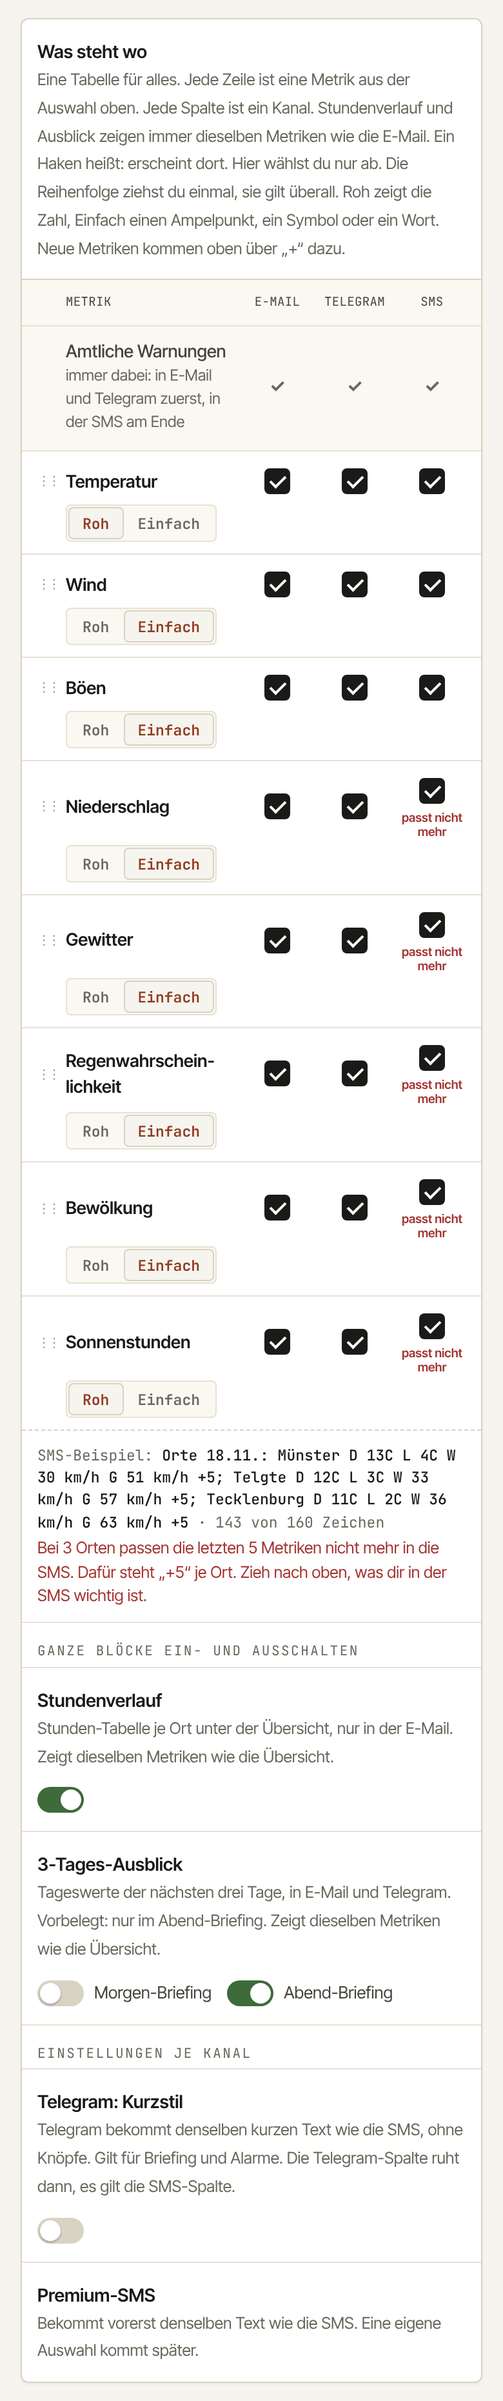
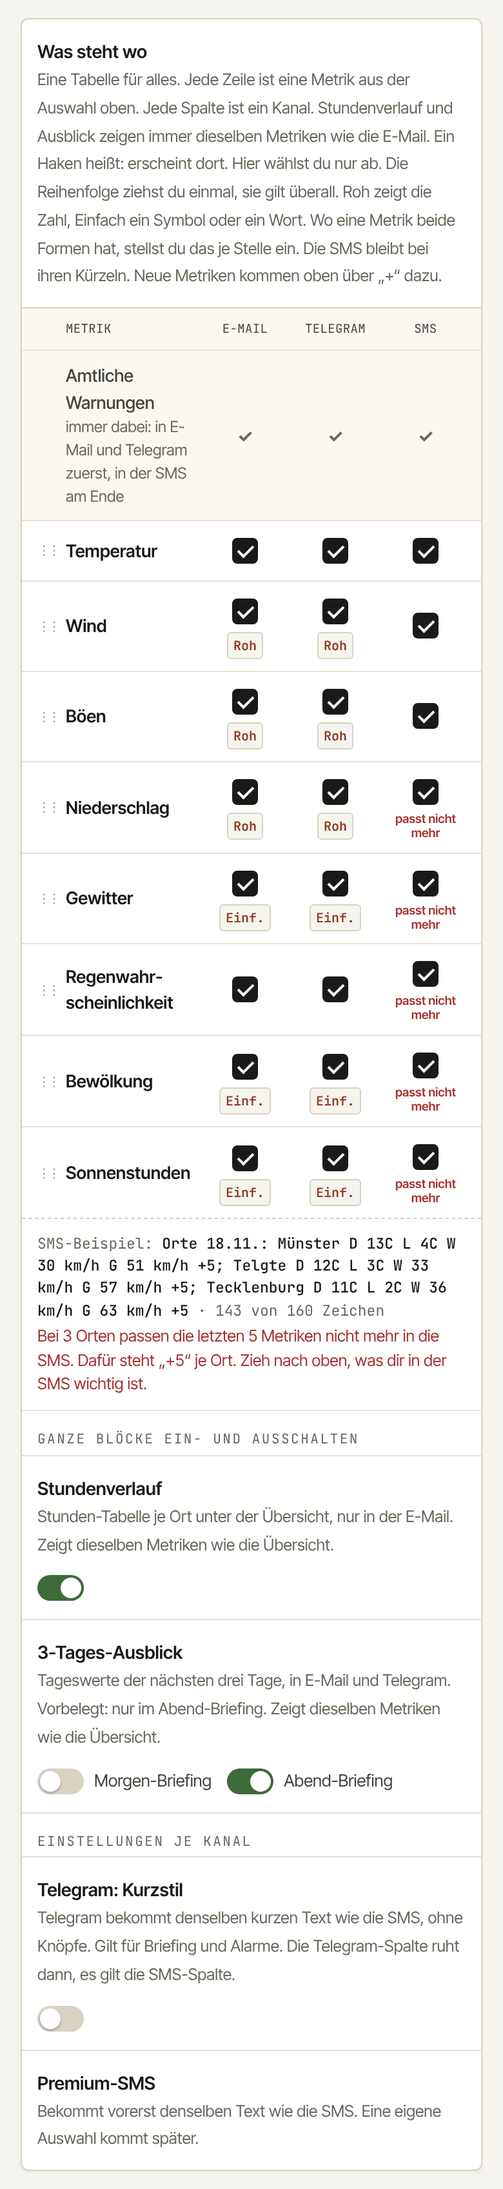
docs(#3122): Roh/Einfach je Stelle und nur bei Metriken mit zwei Formen
PO-Hinweis 17.11.: Roh/Einfach gibt es nicht bei allen Metriken, und die
Unterscheidung ist gerade zwischen Übersicht, Stundenverlauf und Ausblick
sinnvoll. Mockup: Umschalter je Stelle (E-Mail, Telegram, Stundenverlauf,
Ausblick), nur bei Metriken mit zwei Formen laut metric_catalog.py;
sonst „nur Zahl“. Entscheidungsseite und Bilder nachgezogen.

Claude-Session: https://claude.ai/code/session_01DQAMysNdkEqGcJ7x6yciPx

diff --git a/docs/context/einstellungen_neu/seiten/mockup-hub-fassung4-varianten.html b/docs/context/einstellungen_neu/seiten/mockup-hub-fassung4-varianten.html
@@ -243,6 +243,8 @@ body.marks .tag{display:inline-block}
 .kx .xc{border-left:1px solid var(--g-rule-soft);padding-left:12px;align-self:stretch}
 .kx .sh{display:none}
 .nix{width:28px;display:inline-grid;place-items:center;color:var(--g-ink-4)}
+.nurz{font-size:12px;color:var(--g-ink-3)}
+.kx .xc{gap:6px}
 .kx.kxh{font-family:var(--f-mono);font-size:10px;letter-spacing:.08em;text-transform:uppercase;color:var(--g-ink-2);background:var(--g-card-alt);border-top:1px solid var(--g-rule);align-items:start;padding-block:10px}
 .kx.kxh small{display:block;text-transform:none;letter-spacing:0;font-family:var(--f-ui);font-size:11px;color:var(--g-ink-3);margin-top:1px}
 .kx .h{color:var(--g-ink-4);font-family:var(--f-mono);cursor:grab;font-size:12px}
@@ -316,12 +318,13 @@ body.only .vlabel{display:none}
   .kx .h{font-size:10px;letter-spacing:-2px}
   .kx.x1,.kx.nofmt.x1{grid-template-columns:14px minmax(0,1fr) repeat(4,46px);gap:4px 6px}
   .kx.x2{grid-template-columns:14px minmax(0,1fr) repeat(5,40px);gap:4px 4px}
-  .kx.nofmt.x1{grid-template-columns:14px minmax(0,1fr) repeat(3,54px) 40px}
-  .kx.nofmt.x2{grid-template-columns:14px minmax(0,1fr) repeat(3,50px) repeat(2,34px);gap:4px 3px}
+  .kx.nofmt.x1{grid-template-columns:14px minmax(0,1fr) 50px 50px 36px 50px;gap:4px 5px}
+  .kx.nofmt.x2{grid-template-columns:14px minmax(0,1fr) 45px 45px 32px 45px 45px;gap:4px 3px}
+  .kx .nurz{font-size:11.5px}
   .kx .xc{padding-left:0;border-left:0}
   .kx .lg{display:none}
   .kx .sh{display:inline}
-  .kx.x2 .mini{padding:3px 4px;font-size:10px}
+  .kx .mini{padding:3px 4px;font-size:10px}
   .kx .kfmt{grid-column:2/-1;grid-row:2}
   .kx.kxh .kfmt{display:none}
   .kx.kxh{font-size:9.5px;letter-spacing:.02em}
@@ -351,7 +354,7 @@ body.only .vlabel{display:none}
   <div class="fr-rows">
     <div class="fr-row"><span class="fr-l">Ansicht</span><span class="sw" role="group" aria-label="Kontext"><button class="on" data-ctx="trip" type="button">Trip</button><button data-ctx="orte" type="button">Orte · 3 Orte</button><button data-ctx="ort1" type="button">Orte · 1 Ort</button></span></div>
     <div class="fr-row"><span class="fr-l"><i>1</i> Kanal-Auswahl</span><span class="sw" role="group" aria-label="Kanal-Auswahl"><button data-set="varK:A" type="button">A · Eine Tabelle</button><button data-set="varK:B" type="button">B · Liste je Kanal</button></span></div>
-    <div class="fr-row"><span class="fr-l"><i>2</i> Roh / Einfach <small>nur bei A</small></span><span class="sw" role="group" aria-label="Roh oder Einfach"><button data-set="varF:einmal" type="button">einmal je Metrik</button><button data-set="varF:kanal" type="button">je Metrik und Kanal</button></span></div>
+    <div class="fr-row"><span class="fr-l"><i>2</i> Roh / Einfach <small>nur bei A</small></span><span class="sw" role="group" aria-label="Roh oder Einfach"><button data-set="varF:einmal" type="button">einmal je Metrik</button><button data-set="varF:kanal" type="button">je Metrik und Stelle</button></span></div>
     <div class="fr-row"><span class="fr-l"><i>3</i> Stundenverlauf und Ausblick</span><span class="sw" role="group" aria-label="Ausblick und Stundenverlauf"><button data-set="varT:fest" type="button">nur Schalter</button><button data-set="varT:abwahl" type="button">eigene Spalten mit Abwahl</button></span></div>
   </div>
 </div>
@@ -602,7 +605,7 @@ function viewWetter(){
     <div class="lrow"><div class="t"><b>Radar-Regen ${ctx==='trip'?tg('N1'):''}</b><small>Alarm, wenn in der nächsten Stunde Regen auf ${ctx==='trip'?'deine Etappe':EIN()?'deinen Ort':'deine Orte'} zukommt</small></div><div class="r">${sw('radar',s.sw.radar,'Radar-Regen')}</div></div>
   </div>
   </div>
-  <div class="part" data-part="kanal"><span class="vlabel">${V.varK==='A'?'Variante A · Eine Tabelle'+(V.varF==='kanal'?' · Roh/Einfach je Kanal':'')+(V.varT==='abwahl'?' · Stundenverlauf und Ausblick als Spalten':' · Stundenverlauf und Ausblick nur als Schalter'):'Variante B · Liste je Kanal'}</span>${V.varK==='A'?kanalTabelle():kanalListen()}</div>
+  <div class="part" data-part="kanal"><span class="vlabel">${V.varK==='A'?'Variante A · Eine Tabelle'+(V.varF==='kanal'?' · Roh/Einfach je Stelle':' · Roh/Einfach einmal je Metrik')+(V.varT==='abwahl'?' · Stundenverlauf und Ausblick als Spalten':' · Stundenverlauf und Ausblick nur als Schalter'):'Variante B · Liste je Kanal'}</span>${V.varK==='A'?kanalTabelle():kanalListen()}</div>
   ${V.varK==='B'?`<div class="part" data-part="teile"><span class="vlabel">${V.varT==='fest'?'Wie E-Mail, fest':'Wie E-Mail, mit Abwahl'}</span>${teileCard()}</div>`:''}
   <div class="part" data-part="bsp">${beispielPanel()}</div>
   <div class="part" data-part="anpassen">
@@ -646,13 +649,15 @@ const TF={
  thunder:{h:['leicht','leicht','leicht'],tg:'TH leicht',sms:'TH:L@13 TH+:-',a:['kein','kein']},
  cloud_total:{h:['⛅','⛅','☁'],tg:'CT 42-75@15',sms:'CT75@15',a:['40%','80%']},
  sunshine:{h:['–','–','–'],tg:'SU 5',sms:'SU5',a:['6.0','2.5']}};
-const V={varK:'A',varF:'einmal',varT:'abwahl',nameV:'Orte'};
+const V={varK:'A',varF:'kanal',varT:'abwahl',nameV:'Orte'};
 let ONLY=null; const PRE=[];
-function K(){const s=S(); if(!s.kan){s.kan={sel:{'E-Mail':{},'Telegram':{},'SMS':{}},fmt:{},fmtK:{'E-Mail':{},'Telegram':{}},weg:{ausblick:{},stunden:{}}};
+function K(){const s=S(); if(!s.kan){s.kan={sel:{'E-Mail':{},'Telegram':{},'SMS':{}},fmt:{},fmtK:{'E-Mail':{},'Telegram':{},stunden:{},ausblick:{}},weg:{ausblick:{},stunden:{}}};
   PRE.forEach(x=>{if(x[0]==='sel') s.kan.sel[x[1]][x[2]]=false; else s.kan.weg[x[0]][x[1]]=true;});} return s.kan;}
 const onMs=()=>CTX[ctx].metrics.filter(m=>S()[m[0]].on);
 const isSel=(ch,id)=>K().sel[ch][id]!==false;
-const defFmt=id=>['wind','gust','precipitation','rain_probability','thunder','cloud_total','cloud_low'].includes(id)?'Einfach':'Roh';
+// Zweite Darstellungsform laut metric_catalog.py (format_modes); alle anderen Metriken kennen nur die Zahl
+const HASF=['wind','gust','wind_direction','precipitation','thunder','cloud_total','cloud_low','cloud_mid','cloud_high','sunshine'];
+const defFmt=id=>['wind_direction','thunder','cloud_total','cloud_low','cloud_mid','cloud_high','sunshine'].includes(id)?'Einfach':'Roh';
 const fmt1=id=>K().fmt[id]||defFmt(id);
 const fmtK=(ch,id)=>K().fmtK[ch][id]||defFmt(id);
 const mailM=()=>onMs().filter(m=>isSel('E-Mail',m[0]));
@@ -709,22 +714,24 @@ function kanalTabelle(){
   const sub={'E-Mail':mailName(),'Telegram':kurz?'Kurzstil: wie SMS':'Nachricht','SMS':'und Premium-SMS'};
   const kurzn={'E-Mail':'E-Mail','Telegram':ext.length>1?'Telegr.':'Telegram','SMS':'SMS'};
   const XH={stunden:['Stundenverlauf','Std.','nur E-Mail'],ausblick:['3-Tages-Ausblick','Ausbl.','E-Mail und Telegram']};
-  const head=`<div class="kx kxh ${cls}"><span></span><span>Metrik</span>${je?'':`<span class="kfmt">Darstellung<small>gilt für E-Mail und Telegram</small></span>`}${KAN.map(ch=>`<span class="kc"><span class="lg">${ch}</span><span class="sh">${kurzn[ch]}</span><small>${sub[ch]}</small></span>`).join('')}${ext.map(x=>`<span class="kc xc"><span class="lg">${XH[x][0]}</span><span class="sh">${XH[x][1]}</span><small>${XH[x][2]}</small></span>`).join('')}</div>`;
+  const head=`<div class="kx kxh ${cls}"><span></span><span>Metrik</span>${je?'':`<span class="kfmt">Darstellung<small>gilt überall außer in der SMS</small></span>`}${KAN.map(ch=>`<span class="kc"><span class="lg">${ch}</span><span class="sh">${kurzn[ch]}</span><small>${sub[ch]}</small></span>`).join('')}${ext.map(x=>`<span class="kc xc"><span class="lg">${XH[x][0]}</span><span class="sh">${XH[x][1]}</span><small>${XH[x][2]}</small></span>`).join('')}</div>`;
   const fix=s.sw.official?`<div class="kx fix ${cls}"><span></span><span class="kn">Amtliche Warnungen<small>immer dabei: in E-Mail und Telegram zuerst, in der SMS am Ende</small></span>${je?'':'<span class="kfmt"></span>'}${KAN.map(()=>`<span class="kc"><span class="lockck" title="immer dabei">✓</span></span>`).join('')}${ext.map(()=>'<span class="kc xc"></span>').join('')}</div>`:'';
   const rows=ms.map(m=>{const id=m[0];
     const cell=ch=>{const on=isSel(ch,id), dis=ch==='Telegram'&&kurz;
       const note=ch==='SMS'&&on&&sm.cutIds.includes(id)?'<em class="cutn">passt nicht mehr</em>':ch==='Telegram'&&on&&!dis&&tgCut.includes(id)?'<em class="cutn soft">nur Tageswert</em>':'';
-      const f=je&&ch!=='SMS'&&on&&!dis?`<button class="mini" type="button" data-fk="${ch}:${id}" aria-label="Darstellung ${m[1]} in ${ch}: ${fmtK(ch,id)}"><span class="lg">${fmtK(ch,id)}</span><span class="sh">${fmtK(ch,id)==='Roh'?'Roh':'Einf.'}</span></button>`:'';
+      const f=je&&ch!=='SMS'&&on&&!dis&&HASF.includes(id)?`<button class="mini" type="button" data-fk="${ch}:${id}" aria-label="Darstellung ${m[1]} in ${ch}: ${fmtK(ch,id)}"><span class="lg">${fmtK(ch,id)}</span><span class="sh">${fmtK(ch,id)==='Roh'?'Roh':'Einf.'}</span></button>`:'';
       return `<span class="kc ${on?'':'aus'} ${dis?'ruht':''}">${ckBox(ch,m,dis)}${f}<span class="kex">${on&&!dis?esc(exCell(ch,m)):''}</span>${note}</span>`;};
     const xcell=part=>{const an=part==='stunden'?s.sw.std:(s.sw.outM||s.sw.outA), name=part==='stunden'?'Stundenverlauf':'3-Tages-Ausblick';
       if(part==='stunden'&&id==='sunshine') return `<span class="kc xc"><span class="nix">–</span><em class="cutn soft">kein Stundenwert</em></span>`;
       if(!isSel('E-Mail',id)) return `<span class="kc xc"><span class="nix" title="nicht in der E-Mail">–</span></span>`;
-      return `<span class="kc xc ${an?'':'ruht'}"><label class="ck"><input type="checkbox" id="wk-${part}-${id}" data-wk="${part}:${id}" ${K().weg[part][id]?'':'checked'} ${an?'':'disabled'} aria-label="${m[1]} im ${name}"><i></i></label></span>`;};
-    return `<div class="kx ${cls}"><span class="h" aria-hidden="true" title="ziehen zum Umsortieren">⋮⋮</span><span class="kn">${m[1]}</span>${je?'':`<span class="kfmt">${seg('f1:'+id,['Roh','Einfach'],fmt1(id))}</span>`}${KAN.map(cell).join('')}${ext.map(xcell).join('')}</div>`;
+      const xon=!K().weg[part][id];
+      const xf=je&&xon&&an&&HASF.includes(id)?`<button class="mini" type="button" data-fk="${part}:${id}" aria-label="Darstellung ${m[1]} im ${name}: ${fmtK(part,id)}"><span class="lg">${fmtK(part,id)}</span><span class="sh">${fmtK(part,id)==='Roh'?'Roh':'Einf.'}</span></button>`:'';
+      return `<span class="kc xc ${an?'':'ruht'}"><label class="ck"><input type="checkbox" id="wk-${part}-${id}" data-wk="${part}:${id}" ${xon?'checked':''} ${an?'':'disabled'} aria-label="${m[1]} im ${name}"><i></i></label>${xf}</span>`;};
+    return `<div class="kx ${cls}"><span class="h" aria-hidden="true" title="ziehen zum Umsortieren">⋮⋮</span><span class="kn">${m[1]}</span>${je?'':`<span class="kfmt">${HASF.includes(id)?seg('f1:'+id,['Roh','Einfach'],fmt1(id)):'<span class="nurz">nur Zahl</span>'}</span>`}${KAN.map(cell).join('')}${ext.map(xcell).join('')}</div>`;
   }).join('');
   const was=ext.length?`Jede Spalte ist eine Stelle, an der eine Metrik erscheinen kann: die drei Kanäle${O()?', der Stundenverlauf':''} und der 3-Tages-Ausblick. ${O()?'Stundenverlauf und Ausblick':'Der Ausblick'} gibt es nur für Metriken, die auch in der E-Mail stehen.`:`Jede Spalte ist ein Kanal. ${O()?'Stundenverlauf und Ausblick zeigen':'Der Ausblick zeigt'} immer dieselben Metriken wie die E-Mail.`;
   return `<div class="card" data-abschnitt="kanal-inhalt">
-    <div class="lrow" style="border-top:0"><div class="t"><b>Was steht wo</b><small>Eine Tabelle für alles. Jede Zeile ist eine Metrik aus der Auswahl oben. ${was} Ein Haken heißt: erscheint dort. Hier wählst du nur ab. Die Reihenfolge ziehst du einmal, sie gilt überall. Roh zeigt die Zahl, Einfach einen Ampelpunkt, ein Symbol oder ein Wort. Neue Metriken kommen oben über „+“ dazu.</small></div></div>
+    <div class="lrow" style="border-top:0"><div class="t"><b>Was steht wo</b><small>Eine Tabelle für alles. Jede Zeile ist eine Metrik aus der Auswahl oben. ${was} Ein Haken heißt: erscheint dort. Hier wählst du nur ab. Die Reihenfolge ziehst du einmal, sie gilt überall. Roh zeigt die Zahl, Einfach ein Symbol oder ein Wort. ${je?'Wo eine Metrik beide Formen hat, stellst du das je Stelle ein.':'Nicht jede Metrik hat beide Formen.'} Die SMS bleibt bei ihren Kürzeln. Neue Metriken kommen oben über „+“ dazu.</small></div></div>
     ${head}${fix}${rows}
     ${budgetZeile(sm)}
     <div class="sub">Ganze Blöcke ein- und ausschalten</div>
@@ -740,7 +747,7 @@ function kanalListen(){
   const warn=s.sw.official?`<div class="oi fixed"><span class="h" aria-hidden="true"></span><span class="n">Amtliche Warnungen <span class="muted">· immer dabei, ${ch==='SMS'?'steht am Ende':'steht zuerst'}</span></span></div>`:'';
   const rows=ms.map(m=>{const id=m[0], on=isSel(ch,id);
     const note=ch==='SMS'&&on&&sm.cutIds.includes(id)?'passt nicht mehr in 160 Zeichen':ch==='Telegram'&&on&&tgCut.includes(id)?'nur als Tageswert':'';
-    return `<div class="oi kb ${on?'':'off'} ${kurz?'ruht':''}"><span class="h" aria-hidden="true" title="ziehen zum Umsortieren">⋮⋮</span><span class="n">${m[1]}</span><span class="kbx">${ch!=='SMS'?seg('fb:'+ch+':'+id,['Roh','Einfach'],fmtK(ch,id)):''}<span class="exm">${on?esc(exCell(ch,m)):''}</span>${note?`<span class="cutn ${ch==='SMS'?'':'soft'}">${note}</span>`:''}</span>${sw('kb:'+ch+':'+id,on,m[1]+' in '+ch,kurz)}</div>`;}).join('');
+    return `<div class="oi kb ${on?'':'off'} ${kurz?'ruht':''}"><span class="h" aria-hidden="true" title="ziehen zum Umsortieren">⋮⋮</span><span class="n">${m[1]}</span><span class="kbx">${ch!=='SMS'&&HASF.includes(id)?seg('fb:'+ch+':'+id,['Roh','Einfach'],fmtK(ch,id)):''}<span class="exm">${on?esc(exCell(ch,m)):''}</span>${note?`<span class="cutn ${ch==='SMS'?'':'soft'}">${note}</span>`:''}</span>${sw('kb:'+ch+':'+id,on,m[1]+' in '+ch,kurz)}</div>`;}).join('');
   return `<div class="card" data-abschnitt="kanal-inhalt">
     <div class="lrow" style="border-top:0"><div class="t"><b>Inhalt je Kanal</b><small>Je Kanal eine eigene Liste mit eigener Reihenfolge. Jede Liste nimmt nur aus der Auswahl oben: abwählen ja, hinzufügen nein. Neue Metriken kommen oben über „+“ dazu.</small></div>
       <div class="r">${seg('channel',KAN,ch)}</div></div>

diff --git a/docs/context/einstellungen_neu/vorlage-3122/index.html b/docs/context/einstellungen_neu/vorlage-3122/index.html
@@ -122,10 +122,10 @@ body[data-view="handy"] .figs{gap:18px}
         <div class="vh"><span class="tag">Variante A</span><h3>Eine Tabelle für alles</h3><span class="emp">Empfehlung</span></div>
         <p>Jede Metrik steht einmal da. Jede Spalte ist eine Stelle, an der sie erscheinen kann: E-Mail, Telegram, SMS, dazu Stundenverlauf und Ausblick. Es gibt keine zweite Tabelle. Die Reihenfolge ziehst du einmal. <b>Preis:</b> Die Reihenfolge ist überall dieselbe.</p>
         <div class="figs">
-          <figure class="c"><figcaption><b>Orte</b>Drei Orte. Unter „E-Mail“ steht „Übersicht“, rechts daneben Stundenverlauf und Ausblick. Die SMS wird bei drei Orten zu lang, die Tabelle zeigt, was wegfällt.</figcaption><img src="img/c-1a-orte.png" width="1132" height="1138" alt="Variante A bei drei Orten am Computer"></figure>
-          <figure class="c"><figcaption><b>Trip</b>Unter „E-Mail“ steht hier „Stundentabelle“: Die Trip-Mail hat keine Übersicht, ihre Haupttabelle zeigt direkt die Stunden der Etappe. Deshalb gibt es rechts nur die Spalte Ausblick.</figcaption><img src="img/c-1a-trip.png" width="1132" height="1283" alt="Variante A beim Trip am Computer"></figure>
-          <figure class="h"><figcaption><b>Orte</b>Drei Orte</figcaption><img src="img/h-1a-orte.png" width="390" height="1954" alt="Variante A bei drei Orten auf dem Handy"></figure>
-          <figure class="h"><figcaption><b>Trip</b></figcaption><img src="img/h-1a-trip.png" width="390" height="2088" alt="Variante A beim Trip auf dem Handy"></figure>
+          <figure class="c"><figcaption><b>Orte</b>Drei Orte. Unter „E-Mail“ steht „Übersicht“, rechts daneben Stundenverlauf und Ausblick. Die SMS wird bei drei Orten zu lang, die Tabelle zeigt, was wegfällt.</figcaption><img src="img/c-1a-orte.png" width="1132" height="1152" alt="Variante A bei drei Orten am Computer"></figure>
+          <figure class="c"><figcaption><b>Trip</b>Unter „E-Mail“ steht hier „Stundentabelle“: Die Trip-Mail hat keine Übersicht, ihre Haupttabelle zeigt direkt die Stunden der Etappe. Deshalb gibt es rechts nur die Spalte Ausblick.</figcaption><img src="img/c-1a-trip.png" width="1132" height="1275" alt="Variante A beim Trip am Computer"></figure>
+          <figure class="h"><figcaption><b>Orte</b>Drei Orte</figcaption><img src="img/h-1a-orte.png" width="390" height="1778" alt="Variante A bei drei Orten auf dem Handy"></figure>
+          <figure class="h"><figcaption><b>Trip</b></figcaption><img src="img/h-1a-trip.png" width="390" height="1998" alt="Variante A beim Trip auf dem Handy"></figure>
         </div>
       </div>
       <div class="var">
@@ -133,9 +133,9 @@ body[data-view="handy"] .figs{gap:18px}
         <p>Drei Listen hintereinander: E-Mail, Telegram, SMS. Jede hat ihre eigene Reihenfolge. Stundenverlauf und Ausblick stehen in einem eigenen Abschnitt darunter. <b>Preis:</b> Du pflegst dieselben Metriken dreimal, siehst immer nur einen Kanal und hast zwei Stellen statt einer.</p>
         <div class="figs">
           <figure class="c"><figcaption><b>Orte</b>Drei Orte, Liste für die SMS. E-Mail und Telegram haben je eine eigene Liste gleicher Bauart.</figcaption><img src="img/c-1b-orte.png" width="1132" height="1227" alt="Variante B bei drei Orten am Computer, Liste für die SMS"></figure>
-          <figure class="c"><figcaption><b>Trip</b>Liste für die E-Mail.</figcaption><img src="img/c-1b-trip.png" width="1132" height="1213" alt="Variante B beim Trip am Computer, Liste für die E-Mail"></figure>
+          <figure class="c"><figcaption><b>Trip</b>Liste für die E-Mail.</figcaption><img src="img/c-1b-trip.png" width="1132" height="1197" alt="Variante B beim Trip am Computer, Liste für die E-Mail"></figure>
           <figure class="h"><figcaption><b>Orte</b>Liste für die SMS</figcaption><img src="img/h-1b-orte.png" width="390" height="2033" alt="Variante B bei drei Orten auf dem Handy"></figure>
-          <figure class="h"><figcaption><b>Trip</b>Liste für die E-Mail</figcaption><img src="img/h-1b-trip.png" width="390" height="1762" alt="Variante B beim Trip auf dem Handy"></figure>
+          <figure class="h"><figcaption><b>Trip</b>Liste für die E-Mail</figcaption><img src="img/h-1b-trip.png" width="390" height="1735" alt="Variante B beim Trip auf dem Handy"></figure>
         </div>
       </div>
     </div>
@@ -144,28 +144,28 @@ body[data-view="handy"] .figs{gap:18px}
 
   <section class="q" id="roh-einfach">
     <div class="qh"><span class="num">2</span><div>
-      <h2>Roh oder Einfach: einmal je Metrik oder je Kanal?</h2>
-      <p>Roh zeigt die Zahl, Einfach einen Ampelpunkt, ein Symbol oder ein Wort. Die Frage stellt sich nur bei der Tabelle (Variante A). Bei Variante B stellst du es ohnehin in jeder Liste ein. Die SMS bleibt in beiden Fällen bei ihren Kürzeln.</p>
+      <h2>Roh oder Einfach: je Stelle oder einmal je Metrik?</h2>
+      <p>Roh zeigt die Zahl, Einfach ein Symbol oder ein Wort. Die Wahl gibt es nur bei Metriken, die beide Formen haben: Wind, Böen, Niederschlag, Gewitter, Bewölkung, Sonnenstunden und Windrichtung. Temperatur oder Regenwahrscheinlichkeit gibt es nur als Zahl. Die SMS bleibt immer bei ihren Kürzeln.</p>
     </div></div>
     <div class="vars pair">
       <div class="var">
-        <div class="vh"><span class="tag">Einmal je Metrik</span><h3>Eine Einstellung, gilt für E-Mail und Telegram</h3><span class="emp">Empfehlung</span></div>
-        <p>Eine Spalte „Darstellung“ neben dem Namen. <b>Preis:</b> E-Mail und Telegram zeigen eine Metrik immer in derselben Form.</p>
+        <div class="vh"><span class="tag">Je Stelle</span><h3>Eigene Form in Übersicht, Stundenverlauf, Ausblick und Telegram</h3><span class="emp">Dein Hinweis, Empfehlung</span></div>
+        <p>Neben jedem Haken steht ein kleiner Knopf Roh oder Einfach. So kann die Bewölkung in der Übersicht als Zahl stehen und im Stundenverlauf als Symbol. <b>Preis:</b> mehr Knöpfe, auf dem Handy dicht.</p>
         <div class="figs">
-          <figure class="c"><figcaption><b>Orte</b>Drei Orte</figcaption><img src="img/c-1a-orte.png" width="1132" height="1138" alt="Tabelle mit einer Spalte Darstellung je Metrik"></figure>
-          <figure class="h"><figcaption><b>Orte</b>Drei Orte</figcaption><img src="img/h-1a-orte.png" width="390" height="1954" alt="Tabelle mit einer Darstellung je Metrik auf dem Handy"></figure>
+          <figure class="c"><figcaption><b>Orte</b>Drei Orte. Temperatur und Regenwahrscheinlichkeit haben keinen Knopf, es gibt sie nur als Zahl.</figcaption><img src="img/c-1a-orte.png" width="1132" height="1152" alt="Tabelle mit einem Knopf Roh oder Einfach je Stelle"></figure>
+          <figure class="h"><figcaption><b>Orte</b>Drei Orte</figcaption><img src="img/h-1a-orte.png" width="390" height="1778" alt="Tabelle mit einem Knopf Roh oder Einfach je Stelle auf dem Handy"></figure>
         </div>
       </div>
       <div class="var">
-        <div class="vh"><span class="tag">Je Metrik und Kanal</span><h3>Eigene Form in E-Mail und in Telegram</h3></div>
-        <p>In jedem Feld steht neben dem Haken ein Knopf Roh oder Einfach. <b>Preis:</b> doppelt so viele Bedienelemente, auf dem Handy wird es eng.</p>
+        <div class="vh"><span class="tag">Einmal je Metrik</span><h3>Eine Einstellung, gilt überall außer in der SMS</h3></div>
+        <p>Eine Spalte „Darstellung“ neben dem Namen. <b>Preis:</b> Übersicht, Stundenverlauf, Ausblick und Telegram zeigen eine Metrik immer in derselben Form.</p>
         <div class="figs">
-          <figure class="c"><figcaption><b>Orte</b>Drei Orte</figcaption><img src="img/c-2b-orte.png" width="1132" height="1131" alt="Tabelle mit einem Knopf Roh oder Einfach in jedem Feld"></figure>
-          <figure class="h"><figcaption><b>Orte</b>Drei Orte</figcaption><img src="img/h-2b-orte.png" width="390" height="1725" alt="Tabelle mit einem Knopf Roh oder Einfach in jedem Feld auf dem Handy"></figure>
+          <figure class="c"><figcaption><b>Orte</b>Drei Orte</figcaption><img src="img/c-2a-orte.png" width="1132" height="1137" alt="Tabelle mit einer Spalte Darstellung je Metrik"></figure>
+          <figure class="h"><figcaption><b>Orte</b>Drei Orte</figcaption><img src="img/h-2a-orte.png" width="390" height="1952" alt="Tabelle mit einer Darstellung je Metrik auf dem Handy"></figure>
         </div>
       </div>
     </div>
-    <div class="rat"><b>Empfehlung: einmal je Metrik.</b> Es ist die Hälfte der Schalter, und es gibt kaum einen Grund, Böen in der E-Mail als Zahl und in Telegram als Wort zu zeigen.</div>
+    <div class="rat"><b>Empfehlung: je Stelle.</b> Dein Einwand stimmt: In einer Stundentabelle liest sich ein Symbol schneller, in der Übersicht will man eher die Zahl. Das System speichert die Form für Stundenverlauf und Ausblick heute schon getrennt.</div>
   </section>
 
   <section class="q" id="briefing-teile">
@@ -178,17 +178,17 @@ body[data-view="handy"] .figs{gap:18px}
         <div class="vh"><span class="tag">Nur Schalter</span><h3>Alle drei Stellen zeigen dasselbe</h3></div>
         <p>Die Tabelle hat nur die drei Kanäle. Stundenverlauf und Ausblick zeigen immer genau die Metriken der E-Mail und haben unter der Tabelle je einen Schalter. <b>Preis:</b> Wer viele Metriken in der E-Mail hat, bekommt entsprechend breite Tabellen.</p>
         <div class="figs">
-          <figure class="c"><figcaption><b>Orte</b>Drei Orte</figcaption><img src="img/c-3a-orte.png" width="1132" height="1092" alt="Tabelle mit drei Kanälen, darunter Schalter für Stundenverlauf und Ausblick"></figure>
-          <figure class="h"><figcaption><b>Orte</b>Drei Orte</figcaption><img src="img/h-3a-orte.png" width="390" height="1861" alt="Tabelle mit drei Kanälen auf dem Handy"></figure>
+          <figure class="c"><figcaption><b>Orte</b>Drei Orte</figcaption><img src="img/c-3a-orte.png" width="1132" height="1084" alt="Tabelle mit drei Kanälen, darunter Schalter für Stundenverlauf und Ausblick"></figure>
+          <figure class="h"><figcaption><b>Orte</b>Drei Orte</figcaption><img src="img/h-3a-orte.png" width="390" height="1697" alt="Tabelle mit drei Kanälen auf dem Handy"></figure>
         </div>
       </div>
       <div class="var">
         <div class="vh"><span class="tag">Eigene Spalten</span><h3>Zwei Spalten mehr, einzelne Metriken weglassbar</h3><span class="emp">Empfehlung</span></div>
         <p>Stundenverlauf und Ausblick sind zwei weitere Spalten derselben Tabelle. Vorbelegt ist alles wie in der E-Mail. Ein Haken weniger lässt die Metrik dort weg. Steht eine Metrik nicht in der E-Mail, gibt es rechts keinen Haken. <b>Preis:</b> zwei Spalten mehr, auf dem Handy wird es dichter.</p>
         <div class="figs">
-          <figure class="c"><figcaption><b>Orte</b>Drei Orte. Im Ausblick sind hier drei Metriken weggelassen, im Stundenverlauf eine.</figcaption><img src="img/c-3b-orte.png" width="1132" height="1138" alt="Tabelle mit fünf Spalten: E-Mail, Telegram, SMS, Stundenverlauf, Ausblick"></figure>
+          <figure class="c"><figcaption><b>Orte</b>Drei Orte. Im Ausblick sind hier drei Metriken weggelassen, im Stundenverlauf eine.</figcaption><img src="img/c-3b-orte.png" width="1132" height="1152" alt="Tabelle mit fünf Spalten: E-Mail, Telegram, SMS, Stundenverlauf, Ausblick"></figure>
           <figure class="c"><figcaption><b>Orte</b>So käme diese Einstellung in der E-Mail an: Übersicht, darunter Stundenverlauf und Ausblick.</figcaption><img src="img/c-3b-orte-mail.png" width="1132" height="674" alt="E-Mail mit Übersicht, Stundenverlauf und Ausblick"></figure>
-          <figure class="h"><figcaption><b>Orte</b>Drei Orte</figcaption><img src="img/h-3b-orte.png" width="390" height="1954" alt="Tabelle mit fünf Spalten auf dem Handy"></figure>
+          <figure class="h"><figcaption><b>Orte</b>Drei Orte</figcaption><img src="img/h-3b-orte.png" width="390" height="1778" alt="Tabelle mit fünf Spalten auf dem Handy"></figure>
           <figure class="h"><figcaption><b>Orte</b>So käme es in der E-Mail an</figcaption><img src="img/h-3b-orte-mail.png" width="390" height="732" alt="E-Mail mit Übersicht, Stundenverlauf und Ausblick auf dem Handy"></figure>
         </div>
       </div>

diff --git a/docs/context/einstellungen_neu/vorlage-3122/README.md b/docs/context/einstellungen_neu/vorlage-3122/README.md
@@ -11,7 +11,9 @@ Konzept-Endfassung (`../../einstellungen_neu.md`), Mockup Fassung 4 (endgültig)
 ## Die offenen Punkte
 
 1. **Kanal-Auswahl:** A eine Tabelle (Zeilen = Grundauswahl, Spalten = Kanäle, eine Reihenfolge) oder B eine Liste je Kanal.
-2. **Roh/Einfach** (nur bei A): einmal je Metrik (gilt für E-Mail und Telegram) oder je Metrik und Kanal.
+2. **Roh/Einfach** (nur bei A): je Stelle (E-Mail, Telegram, Stundenverlauf, Ausblick; PO-Hinweis 2026-11-17) oder einmal
+   je Metrik. Den Umschalter gibt es nur bei Metriken mit zwei Formen laut `metric_catalog.py` (`format_modes`): Wind,
+   Böen, Niederschlag, Gewitter, Bewölkung (alle Schichten), Sonnenstunden, Windrichtung. Die SMS bleibt bei Kürzeln.
 3. **Stundenverlauf und 3-Tages-Ausblick:** nur Schalter unter der Tabelle (zeigen genau die E-Mail-Metriken) oder zwei
    weitere Spalten derselben Tabelle mit Abwahl je Metrik.
 
